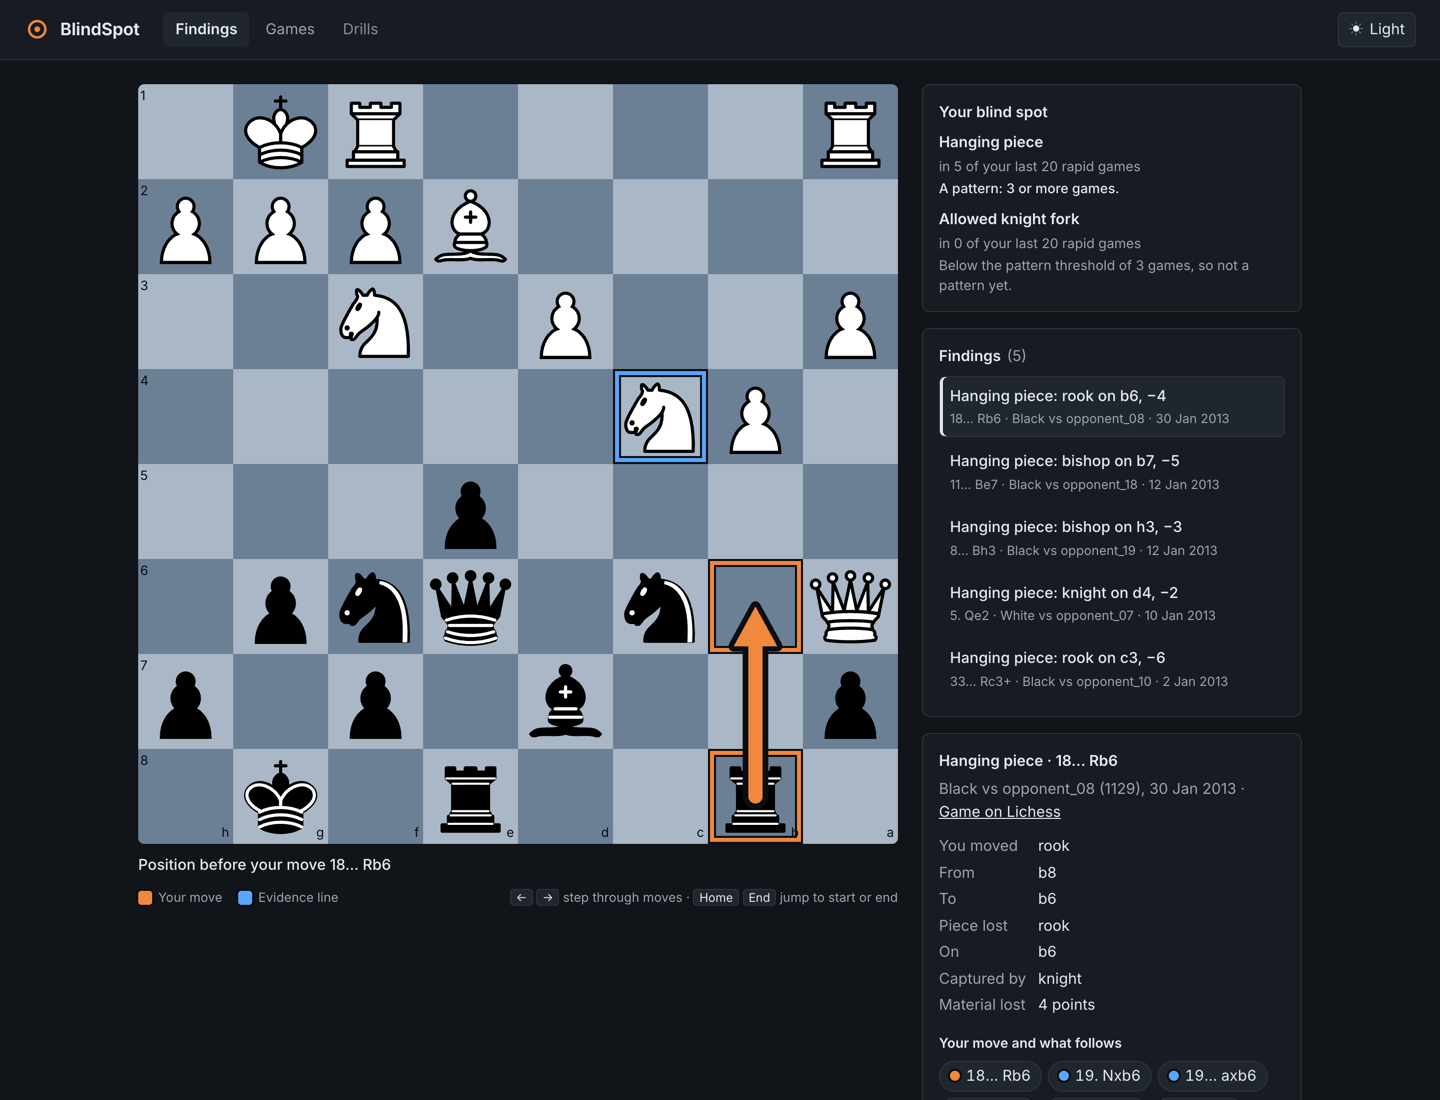
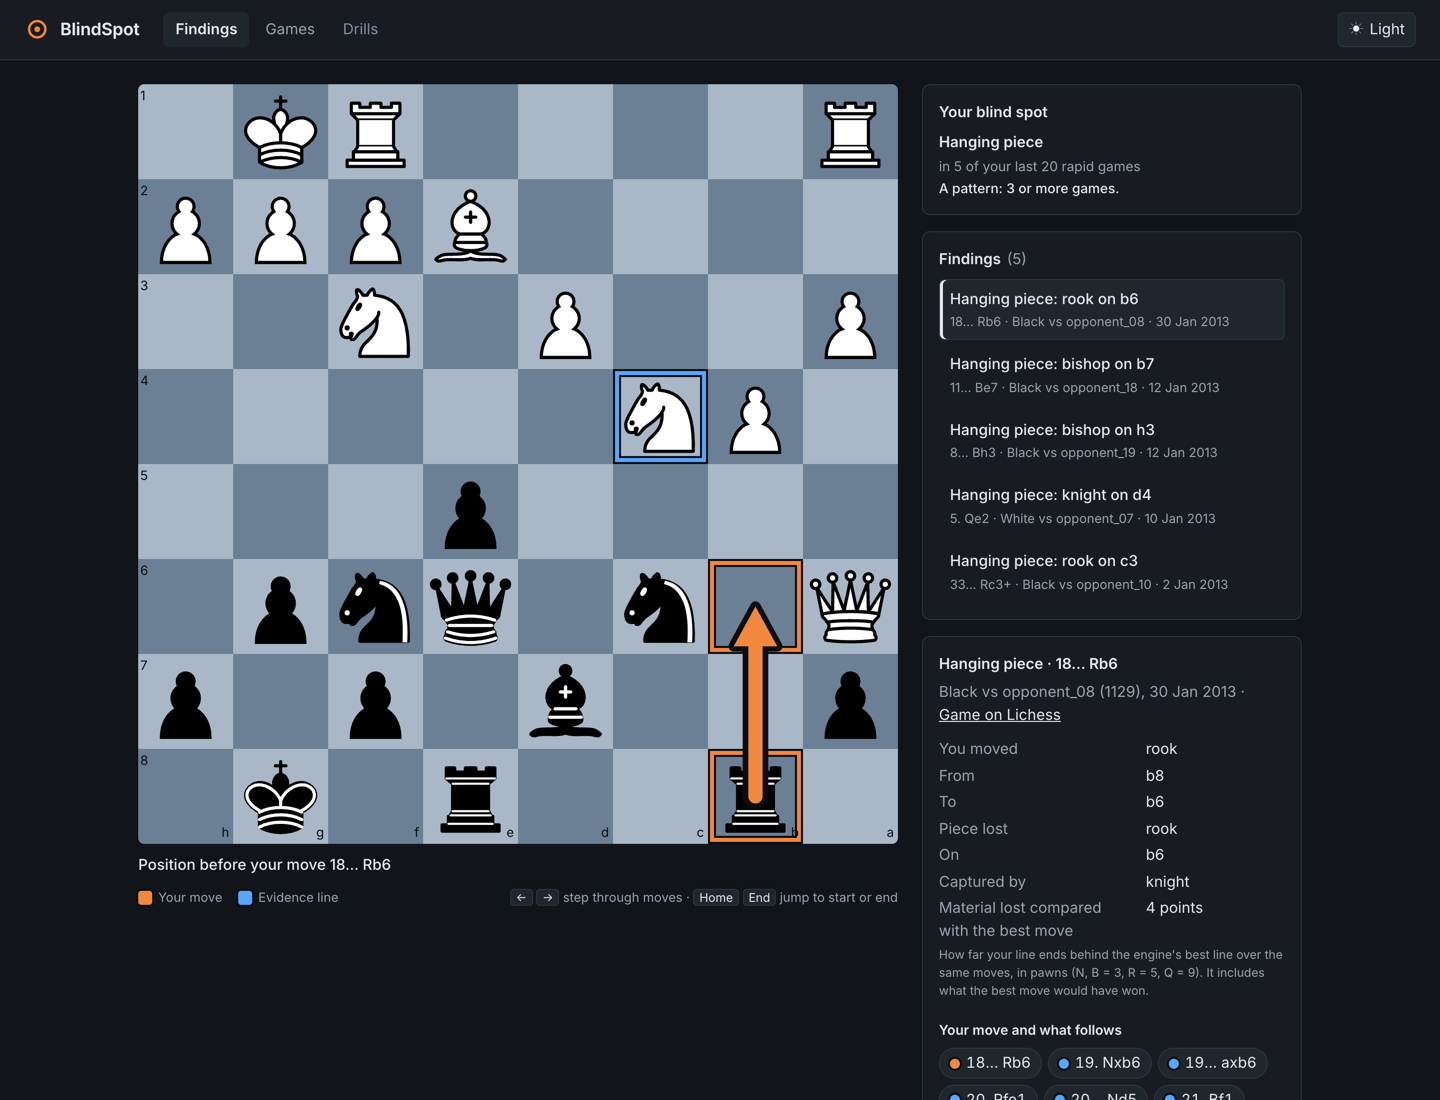
fix(frontend): readable fact hints; devlog and screenshots for the review fixes

Changed region(s): [[0.625, 0.1855, 0.875, 1.0], [0.7812, 0.7727, 0.8438, 0.8345]]

diff --git a/frontend/src/findings/FindingsScreen.test.tsx b/frontend/src/findings/FindingsScreen.test.tsx
@@ -170,7 +170,9 @@ describe("Facts, explanation and footer", () => {
     expect(screen.getByText("Captured by").nextSibling).toHaveTextContent("queen");
     const lost = screen.getByText("Material lost compared with the best move").nextSibling;
     expect(lost).toHaveTextContent("1 point");
-    expect(lost).toHaveTextContent(
+    // The hint is its own row under the value, spanning both columns.
+    expect(lost?.nextSibling).toHaveClass("facts__hint");
+    expect(lost?.nextSibling).toHaveTextContent(
       "How far your line ends behind the engine's best line over the same moves",
     );
     expect(screen.queryByRole("heading", { name: "Why" })).not.toBeInTheDocument();

diff --git a/frontend/src/findings/FindingPanel.tsx b/frontend/src/findings/FindingPanel.tsx
@@ -42,10 +42,8 @@ export function FindingPanel({ detail, line, cursor, onCursor }: Props) {
           {facts.map((fact) => (
             <div key={fact.key} className="facts__row">
               <dt>{fact.label}</dt>
-              <dd>
-                {fact.value}
-                {fact.hint ? <span className="facts__hint">{fact.hint}</span> : null}
-              </dd>
+              <dd>{fact.value}</dd>
+              {fact.hint ? <dd className="facts__hint">{fact.hint}</dd> : null}
             </div>
           ))}
         </dl>

diff --git a/frontend/src/styles.css b/frontend/src/styles.css
@@ -386,6 +386,8 @@ kbd {
 }
 
 .facts dt {
+  /* A long label wraps instead of squeezing the values into a narrow column. */
+  max-width: 13em;
   color: var(--text-muted);
 }
 
@@ -393,8 +395,10 @@ kbd {
   margin: 0;
 }
 
-.facts__hint {
-  display: block;
+/* The hint spans both columns, under the value it explains. */
+.facts dd.facts__hint {
+  grid-column: 1 / -1;
+  margin-bottom: 4px;
   color: var(--text-muted);
   font-size: 0.8rem;
 }

diff --git a/CHANGELOG.md b/CHANGELOG.md
@@ -6,8 +6,8 @@ All notable changes to this project are documented here. The format follows [Kee
 
 ### Added
 
-- Findings screen (#24): the blind-spot report (count and sample size always shown; below the threshold it says so), the findings list (newest first, paged, `/findings/:id` deep links), the board before the mistake with your move as an orange arrow and the evidence in blue (squares as rings, arrows with a dark halo), the evidence line as SAN chips derived with chess.js and stepped with ← → Home End, "Show the best move", the facts (every fact type has a renderer), the explanation only when the API returns one, the game's moves with classifications, and the engine and detector in the footer; loading, empty and error states without server details. Animations follow `prefers-reduced-motion`
-- Read-only API (#51): `GET /api/patterns` (blind-spot report: distinct games with each motif among the last 20 analysed rapid games, sample size, threshold of 3), `GET /api/findings` (newest first, paged, filter by motif), `GET /api/findings/{id}` (FEN, played and best move, evidence line, facts, engine, game, and only a verified TEMPLATE explanation), `GET /api/games/{id}/moves`. Response records only, fetch joins (a page costs 3 queries whatever its size), RFC 9457 problem details without internals, GET only, no CORS; OpenAPI at `/api/docs` (springdoc 3.2.0, no UI)
+- Findings screen (#24): the blind-spot report (count and sample size always shown; below the threshold it says so), the findings list (newest first, paged, `/findings/:id` deep links), the board before the mistake with your move as an orange arrow and the evidence in blue (squares as rings, arrows with a dark halo), the evidence line as SAN chips derived with chess.js and stepped with ← → Home End, "Show the best move", the facts (every fact type has a renderer; "Material lost" says whether it is measured against the best move or in the exchange on the square, ADR 0004), the explanation only when the API returns one, the game's moves with classifications, and the engine and detector in the footer; loading, empty and error states without server details. Animations follow `prefers-reduced-motion`
+- Read-only API (#51): `GET /api/patterns` (blind-spot report, listing only motifs that have a detector: distinct games with each motif among the last 20 analysed rapid games, sample size, threshold of 3), `GET /api/findings` (newest first, paged, filter by motif), `GET /api/findings/{id}` (FEN, played and best move, evidence line, facts, engine, game, and only a verified TEMPLATE explanation), `GET /api/games/{id}/moves`. Response records only, fetch joins (a page costs 3 queries whatever its size), RFC 9457 problem details without internals, GET only, no CORS; OpenAPI at `/api/docs` (springdoc 3.2.0, no UI)
 - `SECURITY.md` (#60): private vulnerability reporting (enabled on the repository), scope, and the local-use, no-authentication status
 - Security headers from nginx (#60): a Content-Security-Policy that allows only same-origin resources and the one inline script by its hash, with `frame-ancestors 'none'`; `X-Frame-Options`, `Permissions-Policy`; no nginx version. A unit test keeps the CSP hash and the nginx includes correct; CI checks the headers on the running container
 - `analysis-service/LICENSE`: the analysis service is GPL-3.0-or-later because it imports python-chess (GPL-3.0-or-later); the backend, the frontend and the rest of the repository stay MIT ([ADR 0002, amendment](docs/decisions/0002-python-analysis-service.md#amendment-2026-11-20-licence-of-the-analysis-service))

diff --git a/docs/devlog.md b/docs/devlog.md
@@ -61,6 +61,23 @@ Entry format: Goal, Changes, Decisions (with the reason and the alternative reje
 - Screenshots: `docs/images/findings-screen-dark.png` (before the mistake) and `findings-screen-light.png` (one evidence move in).
 - CI on PR #64, green on the first run: Frontend 25 s (lint, Prettier, types, 95 tests, build), Backend 1m53s, Analysis service 2m05s, Docker Compose stack 1m16s.
 
+**Review fixes before merge** (Gergo's review of PR #64):
+- **No line for a motif without a detector.** The card showed "Allowed knight fork: in 0 of your last 20 rapid games", which reads as "you never allow forks", while no knight-fork detector exists (#26).
+  - Decision: **`/api/patterns` omits** such motifs rather than flagging them (`detectorAvailable=false` would only make every client filter them out).
+  - `Motif.hasDetector()` is the switch, set to true for HANGING_PIECE and false for ALLOWED_KNIGHT_FORK; #26 flips it in the PR that adds the detector.
+  - New IT: three games with knight-fork findings in the data still list only HANGING_PIECE. The existing "listed even with zero findings" test now applies to motifs with a detector.
+  - The card renders what the API lists; a screen test checks there is no knight-fork line. README API table updated.
+- **"Material lost: 4" for 18… Rb6, where the visible line Nxb6 axb6 is rook for knight (2).** Confirmed against ADR 0004 and recomputed with Stockfish 19 at the service's settings (depth 16, 1 thread, 64 MB), from the position before Rb6 over the same 7-ply window:
+  - the best line `c6d4 a6e6 d4e2 g1h1 d7e6 c4e5 b8c8` leaves Black **+2**;
+  - the played line `b8b6 c4b6 a7b6 f1e1 f6d5 e2f1 e6f6` leaves Black **−2**;
+  - so materialLost = best − played = **4**: 2 actually lost plus 2 the best move would have won. That is rule 3 ("measured against the engine's best line"), and ADR 0004's Consequences name this case ("rook for knight while the best line wins a pawn: 4").
+  The detector and its numbers are unchanged; the label now says what is measured, and it follows the rule that produced the number:
+  - **rule 3** (default): "Material lost compared with the best move", hint "How far your line ends behind the engine's best line over the same moves … It includes what the best move would have won."
+  - **rule 2** (your move captures and the reply recaptures on the same square, which the frontend recognises from the line): "Material lost in the exchange on d5", hint "What you gave up on that square minus what you took back there".
+  The findings list no longer shows a bare "−4". The hint is its own row spanning both columns, and long labels wrap (13em), after the first screenshot showed the value squeezed into a one-word column. Tests cover both labels (exchange fixture: 3. Nxd5 exd5) and the hint row.
+- Verification of the fixes: frontend **96 tests** green, lint and types clean; backend `mvn verify` 77 unit and **65** integration tests green. On the real stack in headless Chrome, the card shows only "Hanging piece: in 5 of your last 20 rapid games, A pattern"; the fact reads "Material lost compared with the best move: 4 points" with the hint; **0 CSP violations**. Screenshots in `docs/images/` retaken.
+- CI after the fixes: CI_RESULT_FIX
+
 **Open points / risks:**
 - **Playwright (#52)** will cover the same flows in a real browser in CI; the screen tests here run in jsdom with react-chessboard's layout stubbed.
 - On narrow screens the panel stacks under the board as in #50; the findings screen was not screenshot-checked at phone width yet. #52 adds a narrow-viewport scenario.
